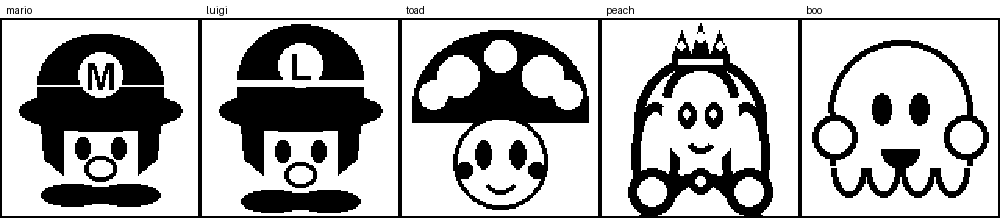
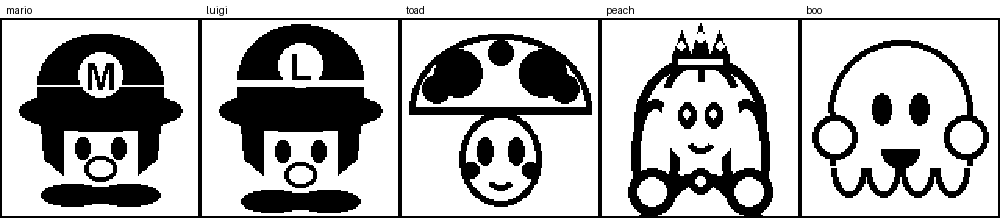
Display is owned by dc34-vault; refine Toad and Peach; add capture.ps1
The image command stores to PDDB and signals the vault, but the vault owns the
screen and alternates its own home screen with the custom image. A frame can
therefore upload with SUCCESS and still not be on screen, depending on which
vault screen is active -- after a reboot the vault returns home, which looked
like the slideshow had failed when every frame had in fact been accepted.

capture.ps1 is a passive listener (sends nothing). dc34-vault logs its LED
light-gene structs unprompted on orientation events, so the genome can be read
off the wire read-only: rate/cd_dir/sat/hue_ratedir/hue_base/hue_bound/
chaser/nonlin.

diff --git a/tools/gen_image.py b/tools/gen_image.py
@@ -104,16 +104,19 @@ def design_peach():
     d = ImageDraw.Draw(img)
     cx = 64
 
-    # ---- hair: THICK ring so blonde reads light, face inside ------------
+    # ---- hair: thick outline so blonde reads LIGHT, with a centre parting
     # Everything here is >=4px: fine linework does not survive on this panel.
     d.ellipse([22, 24, 106, 108], fill=1)      # hair silhouette (solid)
     d.ellipse([28, 30, 100, 102], fill=0)      # hollow it out -> thick ring
-    d.ellipse([20, 54, 50, 122], fill=1)       # long lobe L
-    d.ellipse([26, 60, 44, 116], fill=0)
-    d.ellipse([78, 54, 108, 122], fill=1)      # long lobe R
-    d.ellipse([84, 60, 102, 116], fill=0)
+    d.ellipse([20, 52, 50, 124], fill=1)       # long lobe L
+    d.ellipse([26, 58, 44, 118], fill=0)
+    d.ellipse([78, 52, 108, 124], fill=1)      # long lobe R
+    d.ellipse([84, 58, 102, 118], fill=0)
     d.ellipse([40, 32, 88, 94], fill=0)        # face opening
-    d.arc([40, 28, 88, 76], 185, 355, fill=1, width=6)   # fringe
+    d.arc([40, 26, 88, 74], 195, 345, fill=1, width=5)   # fringe
+    d.line([(64, 27), (64, 40)], fill=1, width=4)        # centre parting
+    d.arc([44, 26, 66, 58], 200, 300, fill=1, width=4)   # sweep L
+    d.arc([62, 26, 84, 58], 240, 340, fill=1, width=4)   # sweep R
 
     # ---- crown: band + three points --------------------------------------
     d.rectangle([46, 23, 82, 32], fill=1)
@@ -253,17 +256,20 @@ def design_toad():
     img = Image.new("1", (W, H), 0)
     d = ImageDraw.Draw(img)
     d.rectangle([0, 0, W - 1, H - 1], outline=1)
-    d.pieslice([8, 8, 120, 104], 180, 360, fill=1)        # mushroom cap
-    d.rectangle([8, 54, 120, 66], fill=1)
-    for box in ([24, 24, 50, 50], [78, 24, 104, 50],
-                [54, 14, 74, 34], [12, 40, 30, 58], [98, 40, 116, 58]):
-        d.ellipse(box, fill=0)                            # spots
-    d.ellipse([34, 62, 94, 122], fill=0, outline=1, width=3)   # head
-    d.ellipse([48, 78, 58, 96], fill=1)                   # eyes
-    d.ellipse([70, 78, 80, 96], fill=1)
-    d.arc([54, 96, 74, 112], 20, 160, fill=1, width=3)    # mouth
-    d.ellipse([36, 92, 46, 102], fill=1)                  # cheeks
-    d.ellipse([82, 92, 92, 102], fill=1)
+    # Cap: outlined (Toad's cap is white with red blotches) so it does not read
+    # as one solid slab, and it sits ON the head rather than floating above it.
+    d.pieslice([6, 10, 122, 108], 180, 360, fill=0, outline=1, width=4)
+    d.line([(6, 59), (122, 59)], fill=1, width=4)         # cap brim
+    for box in ([22, 20, 52, 50], [76, 20, 106, 50], [56, 14, 72, 30]):
+        d.ellipse(box, fill=1)                            # blotches
+    d.ellipse([14, 36, 32, 54], fill=1)
+    d.ellipse([96, 36, 114, 54], fill=1)
+    d.ellipse([38, 60, 90, 120], fill=0, outline=1, width=4)   # face
+    d.ellipse([49, 76, 59, 94], fill=1)                   # eyes
+    d.ellipse([69, 76, 79, 94], fill=1)
+    d.arc([56, 96, 72, 110], 20, 160, fill=1, width=4)    # mouth
+    d.ellipse([40, 92, 50, 102], fill=1)                  # cheeks
+    d.ellipse([78, 92, 88, 102], fill=1)
     return img
 
 
